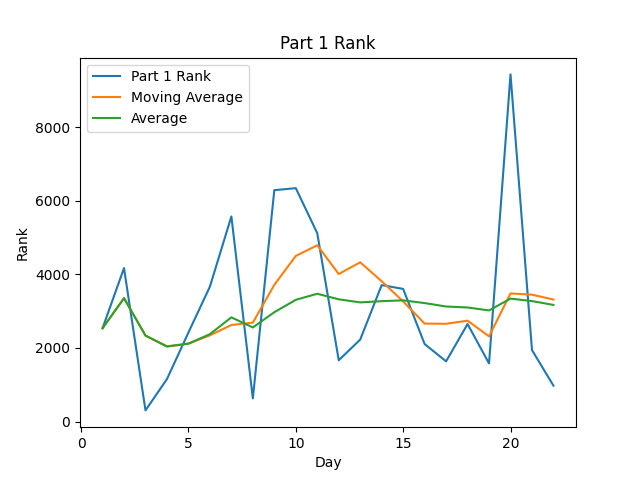
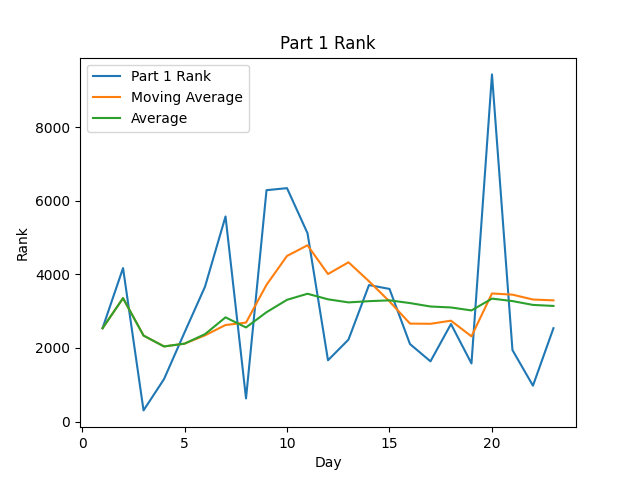
Day 23 ✅

diff --git a/src/day23/solution.ts b/src/day23/solution.ts
@@ -1,0 +1,72 @@
+import { inputAsStringArray } from '../utils/InputProcessor';
+
+const cupGame = (
+  cups: number[],
+  turns: number,
+  maxCup = Math.max(...cups)
+): number[] => {
+  let currentCupIndex = 0;
+  let currentBoard = [...cups];
+  for (let turnCounter = 0; turnCounter < turns; turnCounter++) {
+    // console.log();
+    const hand = [
+      currentBoard[(currentCupIndex + 1) % cups.length],
+      currentBoard[(currentCupIndex + 2) % cups.length],
+      currentBoard[(currentCupIndex + 3) % cups.length],
+    ];
+    const nextCup = currentBoard[(currentCupIndex + 4) % cups.length];
+    // console.log('hand', hand);
+    // console.log('next', nextCup);
+    let destinationVal = currentBoard[currentCupIndex] - 1;
+    currentBoard = currentBoard.filter((cup) => !hand.includes(cup));
+    while (destinationVal === 0 || hand.includes(destinationVal)) {
+      destinationVal--;
+      if (destinationVal <= 0) {
+        destinationVal = maxCup;
+      }
+    }
+    // console.log('dest', destinationVal);
+    const destinationIndex = currentBoard.findIndex(
+      (cup) => cup === destinationVal
+    );
+    currentBoard = [
+      ...currentBoard.slice(0, destinationIndex + 1),
+      ...hand,
+      ...currentBoard.slice(destinationIndex + 1),
+    ];
+    currentCupIndex = currentBoard.findIndex((cup) => cup === nextCup);
+  }
+  return currentBoard;
+};
+
+export const part1 = (input: number[]): number => {
+  const result = cupGame(input, 100)
+    .join('')
+    .split('1')
+    .filter((part) => part.length > 0);
+  return Number.parseInt(
+    result.length === 1 ? result[0] : result[1] + result[0],
+    10
+  );
+};
+
+export const part2 = (input: number[]): number => {
+  // Yeah, this is dreadfully slow. This is a situation in which a
+  // linkedlist would've been way better
+  const bigBoard = [...input];
+  for (let i = Math.max(...input); i <= 1000000; i++) bigBoard.push(i);
+  const result = cupGame(bigBoard, 10000000, 1000000);
+  const one = result.findIndex((cup) => cup === 1);
+  return result[(one + 1) % result.length] * result[(one + 2) % result.length];
+};
+
+if (require.main === module) {
+  (() => {
+    const input = inputAsStringArray('src/day23/input.txt')[0]
+      .split('')
+      .map((char) => Number.parseInt(char, 10));
+    console.log(
+      `Day 23:\n  Part 1:  ${part1(input)}\n  Part 2:  ${part2(input)}`
+    );
+  })();
+}

diff --git a/src/day23/__tests__/dayTest.ts b/src/day23/__tests__/dayTest.ts
@@ -1,0 +1,10 @@
+import { part1 } from '../solution';
+
+describe('day 23', () => {
+  it('should solve part 1 with example input', () => {
+    expect(part1([3, 8, 9, 1, 2, 5, 4, 6, 7])).toBe(67384529);
+  });
+  it('should solve part 1 with my assigned input', () => {
+    expect(part1([6, 8, 5, 9, 7, 4, 2, 1, 3])).toBe(82635947);
+  });
+});

diff --git a/test.py b/test.py
@@ -1,0 +1,93 @@
+from __future__ import annotations
+
+from typing import Dict, List, Mapping, Optional, Sequence, Set, Tuple, Union
+#from advent import Input
+import re
+from collections import defaultdict
+from math import ceil, floor
+
+# input = (
+# 	Input(
+# 		day = 23,
+# 		# sample = True,
+# 	)
+# 		# .all()
+# 		# .ints()
+# 		# .lines()
+# 		# .line_tokens()
+# 		# .line_tokens(sep = "\n", line_sep = "\n\n")
+# 		# .program()
+# )
+
+class Node:
+	next: Node
+	val: int
+
+	def __init__(self, v: int):
+		self.val = v
+
+n = 1000000
+steps = 10000000
+# n = 9
+# steps = 100
+sample = "389125467"
+input = "685974213"
+order: List[int] = [int(x) for x in input] + list(range(10, 1000001))
+lookup: Dict[int, Node] = dict()
+
+for i in range(1, n+1):
+	lookup[i] = Node(i)
+
+for i in range(len(order)):
+	lookup[order[i]].next = lookup[order[(i+1)%len(order)]]
+
+cur: Node = lookup[order[0]]
+
+def dump():
+	cur = lookup[1].next
+	print(1, end="")
+	while cur.val != 1:
+		print(cur.val, end="")
+		cur = cur.next
+	print()
+
+for i in range(steps):
+	if i % 100000 == 0:
+		print(i)
+	pickup = cur.next
+	cur.next = cur.next.next.next.next
+
+	v = cur.val
+	# print(cur.val, pickup.val, pickup.next.val, pickup.next.next.val)
+
+	while v in [cur.val, pickup.val, pickup.next.val, pickup.next.next.val]:
+		v -= 1
+		if v == 0:
+			v = n
+
+	loc = lookup[v]
+	pickup.next.next.next = loc.next
+	loc.next = pickup
+	cur = cur.next
+	if n < 100:
+		dump()
+
+if n < 100:
+	dump()
+print(lookup[1].next.val * lookup[1].next.next.val)
+
+# original part 1 solution below
+
+# for i in range(100):
+# 	pickup = order[1:4]
+# 	order = [order[0]] + order[4:]
+# 	dest = order[0]
+# 	while dest == order[0] or dest in pickup:
+# 		dest -= 1
+# 		if dest == 0:
+# 			dest = n
+# 	spl = order.index(dest)
+# 	order = order[:spl+1] + pickup + order[spl+1:]
+# 	order = order[1:] + [order[0]]
+
+# print("".join([str(x) for x in order]))

diff --git a/src/day23/README.md b/src/day23/README.md
@@ -1,0 +1,94 @@
+\--- Day 23: Crab Cups ---
+--------------------------
+
+The small crab challenges _you_ to a game! The crab is going to mix up some cups, and you have to predict where they'll end up.
+
+The cups will be arranged in a circle and labeled _clockwise_ (your puzzle input). For example, if your labeling were `32415`, there would be five cups in the circle; going clockwise around the circle from the first cup, the cups would be labeled `3`, `2`, `4`, `1`, `5`, and then back to `3` again.
+
+Before the crab starts, it will designate the first cup in your list as the _current cup_. The crab is then going to do _100 moves_.
+
+Each _move_, the crab does the following actions:
+
+*   The crab picks up the _three cups_ that are immediately _clockwise_ of the _current cup_. They are removed from the circle; cup spacing is adjusted as necessary to maintain the circle.
+*   The crab selects a _destination cup_: the cup with a _label_ equal to the _current cup's_ label minus one. If this would select one of the cups that was just picked up, the crab will keep subtracting one until it finds a cup that wasn't just picked up. If at any point in this process the value goes below the lowest value on any cup's label, it _wraps around_ to the highest value on any cup's label instead.
+*   The crab places the cups it just picked up so that they are _immediately clockwise_ of the destination cup. They keep the same order as when they were picked up.
+*   The crab selects a new _current cup_: the cup which is immediately clockwise of the current cup.
+
+For example, suppose your cup labeling were `389125467`. If the crab were to do merely 10 moves, the following changes would occur:
+
+    -- move 1 --
+    cups: (3) 8  9  1  2  5  4  6  7 
+    pick up: 8, 9, 1
+    destination: 2
+    
+    -- move 2 --
+    cups:  3 (2) 8  9  1  5  4  6  7 
+    pick up: 8, 9, 1
+    destination: 7
+    
+    -- move 3 --
+    cups:  3  2 (5) 4  6  7  8  9  1 
+    pick up: 4, 6, 7
+    destination: 3
+    
+    -- move 4 --
+    cups:  7  2  5 (8) 9  1  3  4  6 
+    pick up: 9, 1, 3
+    destination: 7
+    
+    -- move 5 --
+    cups:  3  2  5  8 (4) 6  7  9  1 
+    pick up: 6, 7, 9
+    destination: 3
+    
+    -- move 6 --
+    cups:  9  2  5  8  4 (1) 3  6  7 
+    pick up: 3, 6, 7
+    destination: 9
+    
+    -- move 7 --
+    cups:  7  2  5  8  4  1 (9) 3  6 
+    pick up: 3, 6, 7
+    destination: 8
+    
+    -- move 8 --
+    cups:  8  3  6  7  4  1  9 (2) 5 
+    pick up: 5, 8, 3
+    destination: 1
+    
+    -- move 9 --
+    cups:  7  4  1  5  8  3  9  2 (6)
+    pick up: 7, 4, 1
+    destination: 5
+    
+    -- move 10 --
+    cups: (5) 7  4  1  8  3  9  2  6 
+    pick up: 7, 4, 1
+    destination: 3
+    
+    -- final --
+    cups:  5 (8) 3  7  4  1  9  2  6 
+    
+
+In the above example, the cups' values are the labels as they appear moving clockwise around the circle; the _current cup_ is marked with `( )`.
+
+After the crab is done, what order will the cups be in? Starting _after the cup labeled `1`_, collect the other cups' labels clockwise into a single string with no extra characters; each number except `1` should appear exactly once. In the above example, after 10 moves, the cups clockwise from `1` are labeled `9`, `2`, `6`, `5`, and so on, producing _`92658374`_. If the crab were to complete all 100 moves, the order after cup `1` would be _`67384529`_.
+
+Using your labeling, simulate 100 moves. _What are the labels on the cups after cup `1`?_
+
+
+
+\--- Part Two ---
+-----------------
+
+Due to what you can only assume is a mistranslation (you're not exactly fluent in Crab), you are quite surprised when the crab starts arranging _many_ cups in a circle on your raft - _one million_ (`1000000`) in total.
+
+Your labeling is still correct for the first few cups; after that, the remaining cups are just numbered in an increasing fashion starting from the number after the highest number in your list and proceeding one by one until one million is reached. (For example, if your labeling were `54321`, the cups would be numbered `5`, `4`, `3`, `2`, `1`, and then start counting up from `6` until one million is reached.) In this way, every number from one through one million is used exactly once.
+
+After discovering where you made the mistake in translating Crab Numbers, you realize the small crab isn't going to do merely 100 moves; the crab is going to do _ten million_ (`10000000`) moves!
+
+The crab is going to hide your _stars_ - one each - under the _two cups that will end up immediately clockwise of cup `1`_. You can have them if you predict what the labels on those cups will be when the crab is finished.
+
+In the above example (`389125467`), this would be `934001` and then `159792`; multiplying these together produces _`149245887792`_.
+
+Determine which two cups will end up immediately clockwise of cup `1`. _What do you get if you multiply their labels together?_

diff --git a/README.md b/README.md
@@ -2,7 +2,7 @@
 [Advent of Code](https://adventofcode.com) Solutions for 2020 in TypeScript.
 This year, I have self-imposed a rule that I will be unit testing every day's submission, and, unless I am completely
 unable to do so, have every solution able to solve both parts in under the 15-second mark they suggest, on my 2017
-MacBook Pro (15"). 
+MacBook Pro (15") (Failed on day 23-2 for this requirement).
 
 I took a day off on day 20, but I went back and did it by hand the next day for a logic puzzle.
 
@@ -49,7 +49,8 @@ I took a day off on day 20, but I went back and did it by hand the next day for 
 |  20 | 13:35:48 ( 9433) (  0)     | 13:35:59 ( 4008) (  0)     |
 |  21 | 00:47:49 ( 1942) (  0)     | 01:09:28 ( 2166) (  0)     |
 |  22 | 00:09:23 (  975) (  0)     | 00:40:53 (  899) (  0)     |
-| Avg | 01:02:46 ( 3169) (  0)     | 01:34:39 ( 3179) (  0)     |
+|  23 | 01:01:21 ( 2537) (  0)     | 01:17:52 (  743) (  0)     |
+| Avg | 01:02:42 ( 3141) (  0)     | 01:33:55 ( 3073) (  0)     |
 
 
 <!--suppress CheckImageSize -->

diff --git a/README_template.md b/README_template.md
@@ -2,7 +2,7 @@
 [Advent of Code](https://adventofcode.com) Solutions for 2020 in TypeScript.
 This year, I have self-imposed a rule that I will be unit testing every day's submission, and, unless I am completely
 unable to do so, have every solution able to solve both parts in under the 15-second mark they suggest, on my 2017
-MacBook Pro (15"). 
+MacBook Pro (15") (Failed on day 23-2 for this requirement).
 
 I took a day off on day 20, but I went back and did it by hand the next day for a logic puzzle.
 
